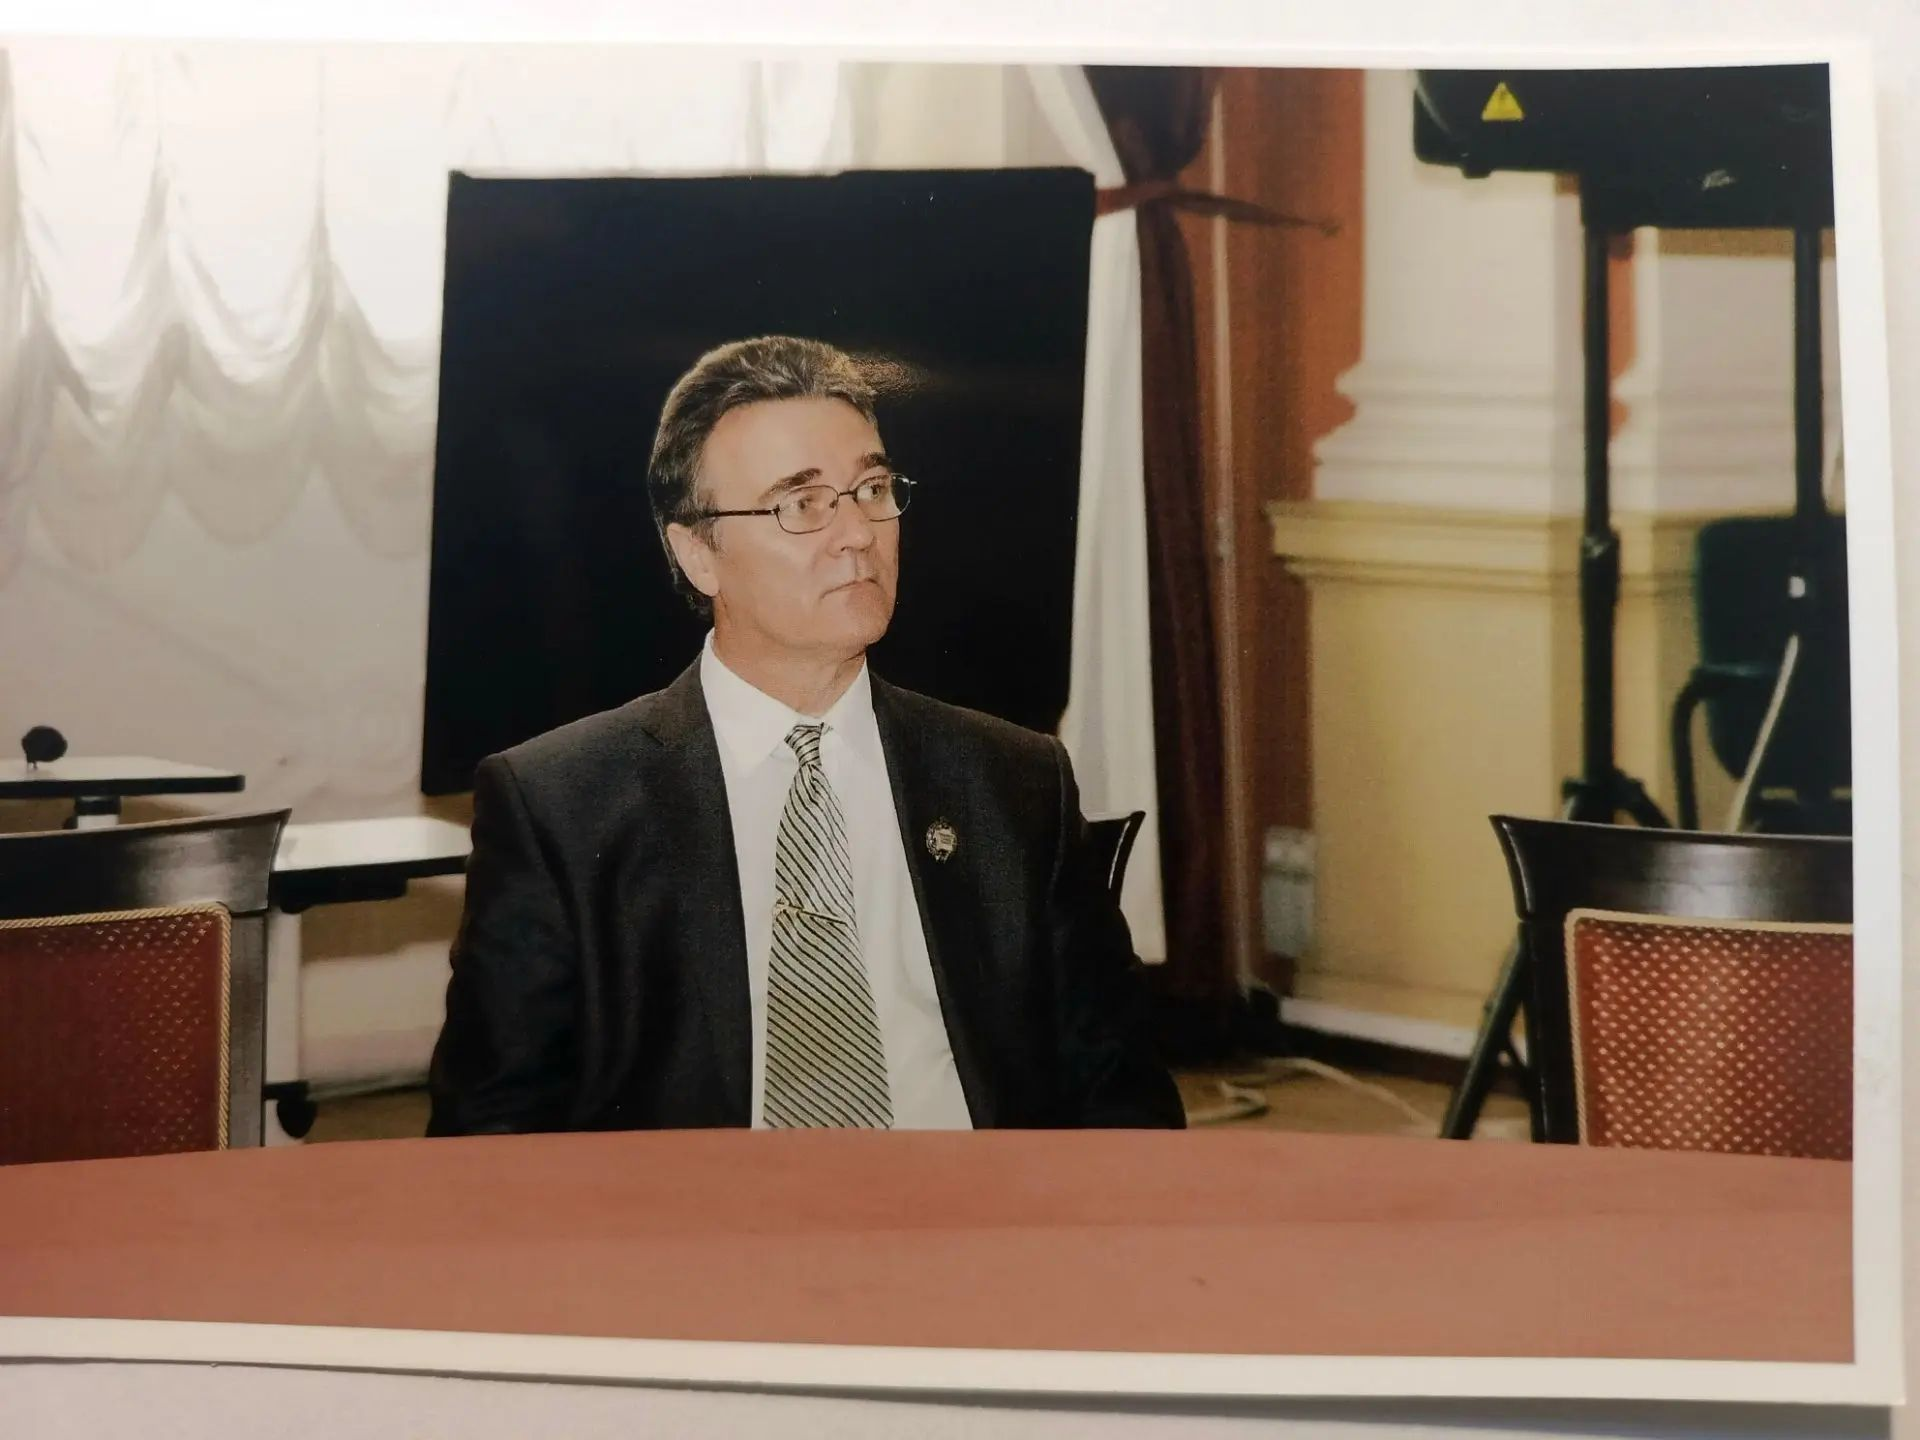
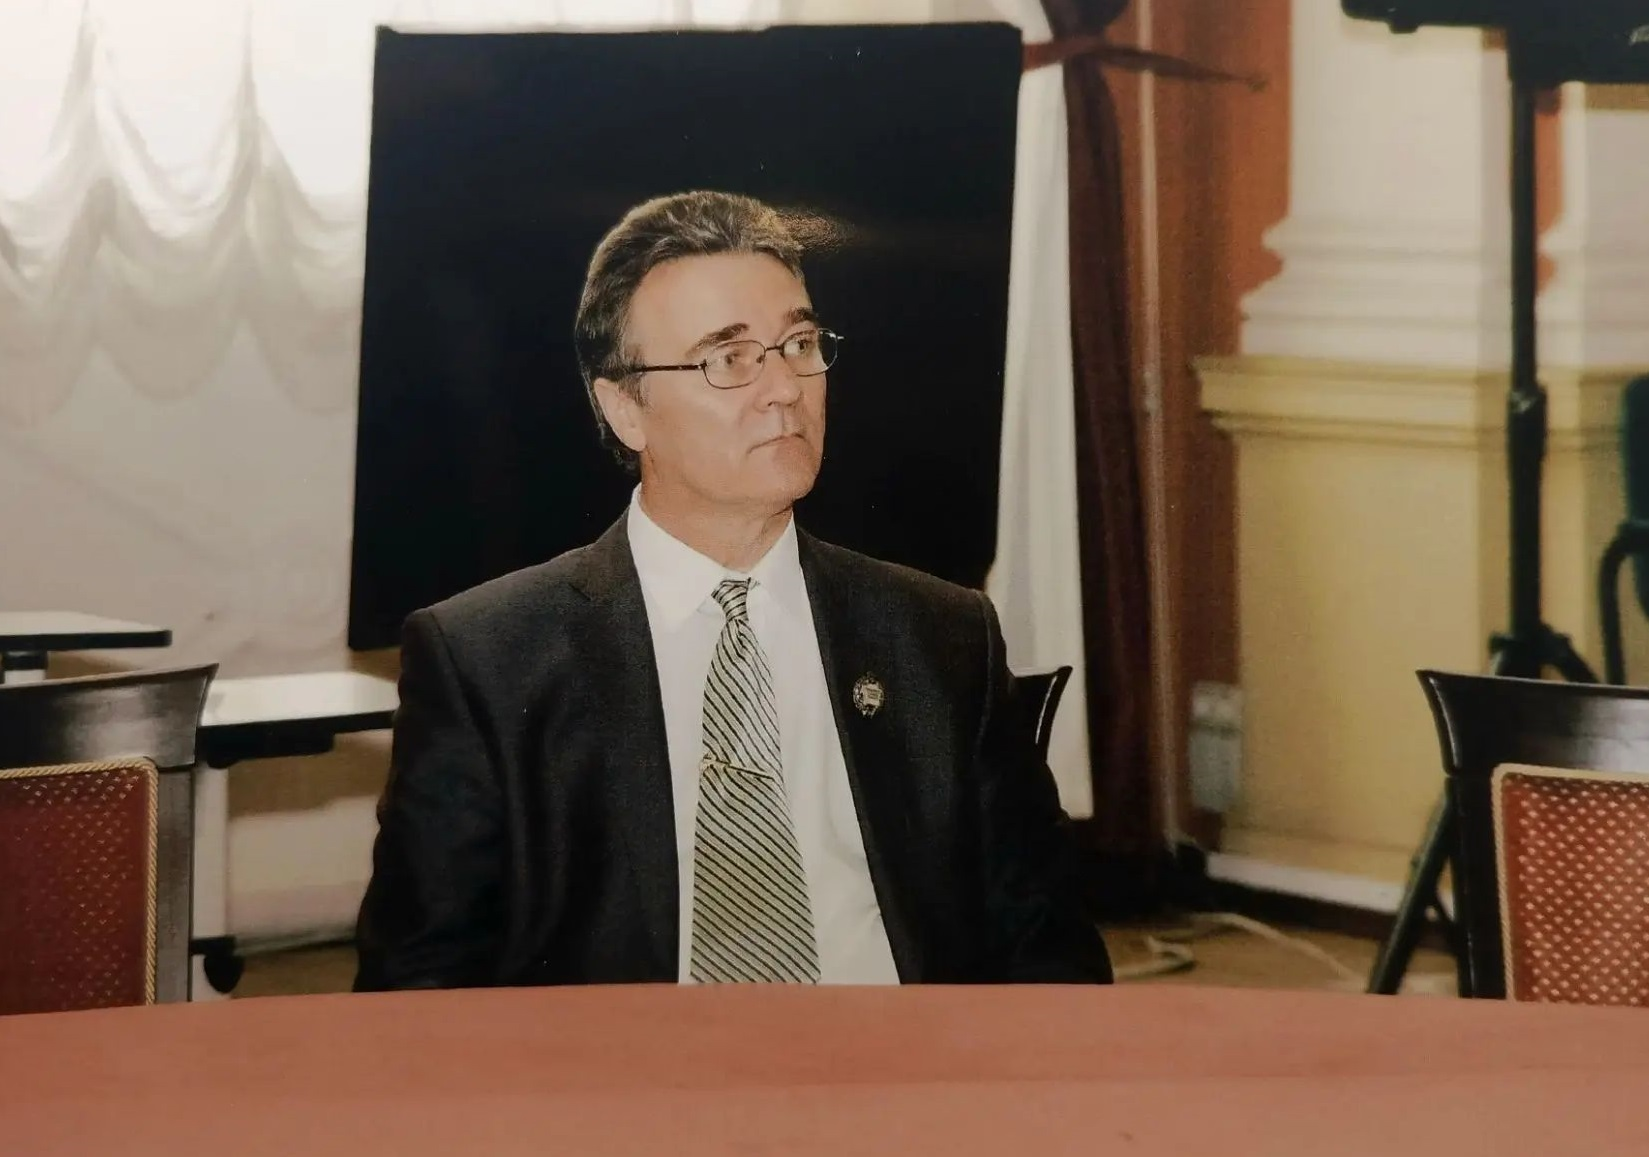
first commit

diff --git a/index.html b/index.html
@@ -257,50 +257,35 @@
 
           <article class="work-card work-card--sm">
             <div class="work-card__image">
-              <img src="image/works/still-life-fish.jpg"
-                   alt="«Натюрморт с рыбой» — Сергей Грива, 2012"
-                   width="600" height="600" loading="lazy" decoding="async">
+              <img src="./media/пейзаж.webp"
+                   alt="'Живопись - музей Академии художеств' — Сергей Грива"
+                   width="600" height="400" loading="lazy" decoding="async">
             </div>
             <div class="work-card__body">
-              <h3 class="work-card__title">«Натюрморт с рыбой»</h3>
-              <div class="work-card__meta">
-                <span><i class="fa-solid fa-palette"></i> Натюрморт</span>
-                <span><i class="fa-solid fa-calendar"></i> 2012</span>
-              </div>
-            </div>
-          </article>
-
-          <article class="work-card work-card--sm">
-            <div class="work-card__image">
-              <img src="image/works/field-flowers.jpg"
-                   alt="«Полевые цветы» — Сергей Грива, 2018"
-                   width="600" height="600" loading="lazy" decoding="async">
-            </div>
-            <div class="work-card__body">
-              <h3 class="work-card__title">«Полевые цветы»</h3>
-              <div class="work-card__meta">
-                <span><i class="fa-solid fa-palette"></i> Натюрморт</span>
-                <span><i class="fa-solid fa-calendar"></i> 2018</span>
-              </div>
-            </div>
-          </article>
-
-          <article class="work-card work-card--sm">
-            <div class="work-card__image">
-              <img src="image/works/sea.jpg"
-                   alt="«Штормящее море» — Сергей Грива, 2014"
-                   width="600" height="600" loading="lazy" decoding="async">
-            </div>
-            <div class="work-card__body">
-              <h3 class="work-card__title">«Штормящее море»</h3>
+              <h3 class="work-card__title">"Пейзаж"</h3>
               <div class="work-card__meta">
                 <span><i class="fa-solid fa-palette"></i> Пейзаж</span>
-                <span><i class="fa-solid fa-calendar"></i> 2014</span>
+
               </div>
             </div>
           </article>
 
           <article class="work-card work-card--sm">
+            <div class="work-card__image">
+              <img src="./media/Сирень.webp"
+                   alt="«Сирень» — Сергей Грива"
+                   width="600" height="600" loading="lazy" decoding="async">
+            </div>
+            <div class="work-card__body">
+              <h3 class="work-card__title">«Сирень»</h3>
+              <div class="work-card__meta">
+                <span><i class="fa-solid fa-palette"></i> Натюрморт</span>
+              </div>
+            </div>
+          </article>
+
+
+          <!-- <article class="work-card work-card--sm">
             <div class="work-card__image">
               <img src="image/works/old-things.jpg"
                    alt="«Старые вещи» — натюрморт Сергея Гривы, 2009"
@@ -313,7 +298,7 @@
                 <span><i class="fa-solid fa-calendar"></i> 2009</span>
               </div>
             </div>
-          </article>
+          </article> -->
         </div>
 
         <div style="text-align:center;margin-top:3rem;">
@@ -457,23 +442,23 @@
 
         <div class="gallery-collage">
           <div class="gallery-collage__item gallery-collage__item--hero">
-            <img src="image/gallery/g1.jpg" alt="Сергей Грива в мастерской" width="600" height="400" loading="lazy" decoding="async">
+            <img src="./media/photos/IMG_20261025_184549_758.jpg" alt="Сергей Грива в мастерской" width="600" height="400" loading="lazy" decoding="async">
           </div>
-          <div class="gallery-collage__item">
-            <img src="image/gallery/g2.jpg" alt="Фрагмент живописи" width="300" height="300" loading="lazy" decoding="async">
+          <!-- <div class="gallery-collage__item">
+            <img src="/media/пейзаж.webp" alt="Фрагмент живописи" width="300" height="300" loading="lazy" decoding="async">
           </div>
           <div class="gallery-collage__item">
             <img src="image/gallery/g3.jpg" alt="Фрагмент натюрморта" width="300" height="300" loading="lazy" decoding="async">
-          </div>
+          </div> -->
           <div class="gallery-collage__item gallery-collage__item--wide">
-            <img src="image/gallery/g4.jpg" alt="Сергей Грива на открытии выставки" width="600" height="300" loading="lazy" decoding="async">
+            <img src="./media/photos/IMG_20261025_184548_993.jpg" alt="Сергей Грива на открытии выставки" width="600" height="300" loading="lazy" decoding="async">
           </div>
-          <div class="gallery-collage__item">
+          <!-- <div class="gallery-collage__item">
             <img src="image/gallery/g5.jpg" alt="Фрагмент пейзажа" width="300" height="300" loading="lazy" decoding="async">
           </div>
           <div class="gallery-collage__item">
             <img src="image/gallery/g6.jpg" alt="Рабочий стол художника" width="300" height="300" loading="lazy" decoding="async">
-          </div>
+          </div> -->
         </div>
       </div>
     </section>
@@ -502,7 +487,7 @@
               <i class="fa-solid fa-plus accordion__icon"></i>
             </button>
             <div class="accordion__body">
-              <p>Стоимость зависит от периода, размера, жанра и состояния сохранности. Напишите через форму — мы отправим каталог доступных работ или ответим по конкретной картине.</p>
+              <p>Стоимость зависит от периода, размера, жанра и состояния сохранности. Напишите через форму — ответим по конкретной картине.</p>
             </div>
           </div>
           <div class="accordion__item">

diff --git a/about.html b/about.html
@@ -113,7 +113,7 @@
 
         <div class="hero__visual">
           <div class="hero__image-frame">
-            <img src="image/sergey-griva-portrait.jpg" alt="Портрет Сергея Николаевича Гривы" class="hero__photo" width="600" height="800" loading="eager">
+            <img src="./media/photos/IMG_20261025_184545_694.jpg" alt="фото Сергея Николаевича Гривы" class="hero__photo" width="800" height="600" loading="eager">
           </div>
           <div class="hero__badge">
             <i class="fa-solid fa-award"></i> Ветеран труда
@@ -133,11 +133,9 @@
         <div class="memorial">
           <div class="memorial__frame">
             <!-- Замените на реальное видео/iframe, когда будет готово -->
-            <div class="memorial__placeholder">
+            <video src="./media/video/MOV_20261025_184508_732.mp4" class="memorial__placeholder">
               <i class="fa-solid fa-film"></i>
-              <p>Здесь будет размещено прощальное видео</p>
-              <p style="font-size:0.85rem;opacity:0.7;">Замените плейсхолдер на &lt;video&gt; или &lt;iframe&gt; (YouTube / VK Video)</p>
-            </div>
+            </video>
           </div>
           <p class="memorial__caption">
             Светлая память художнику, чьи работы продолжают жить и говорить со зрителем.
